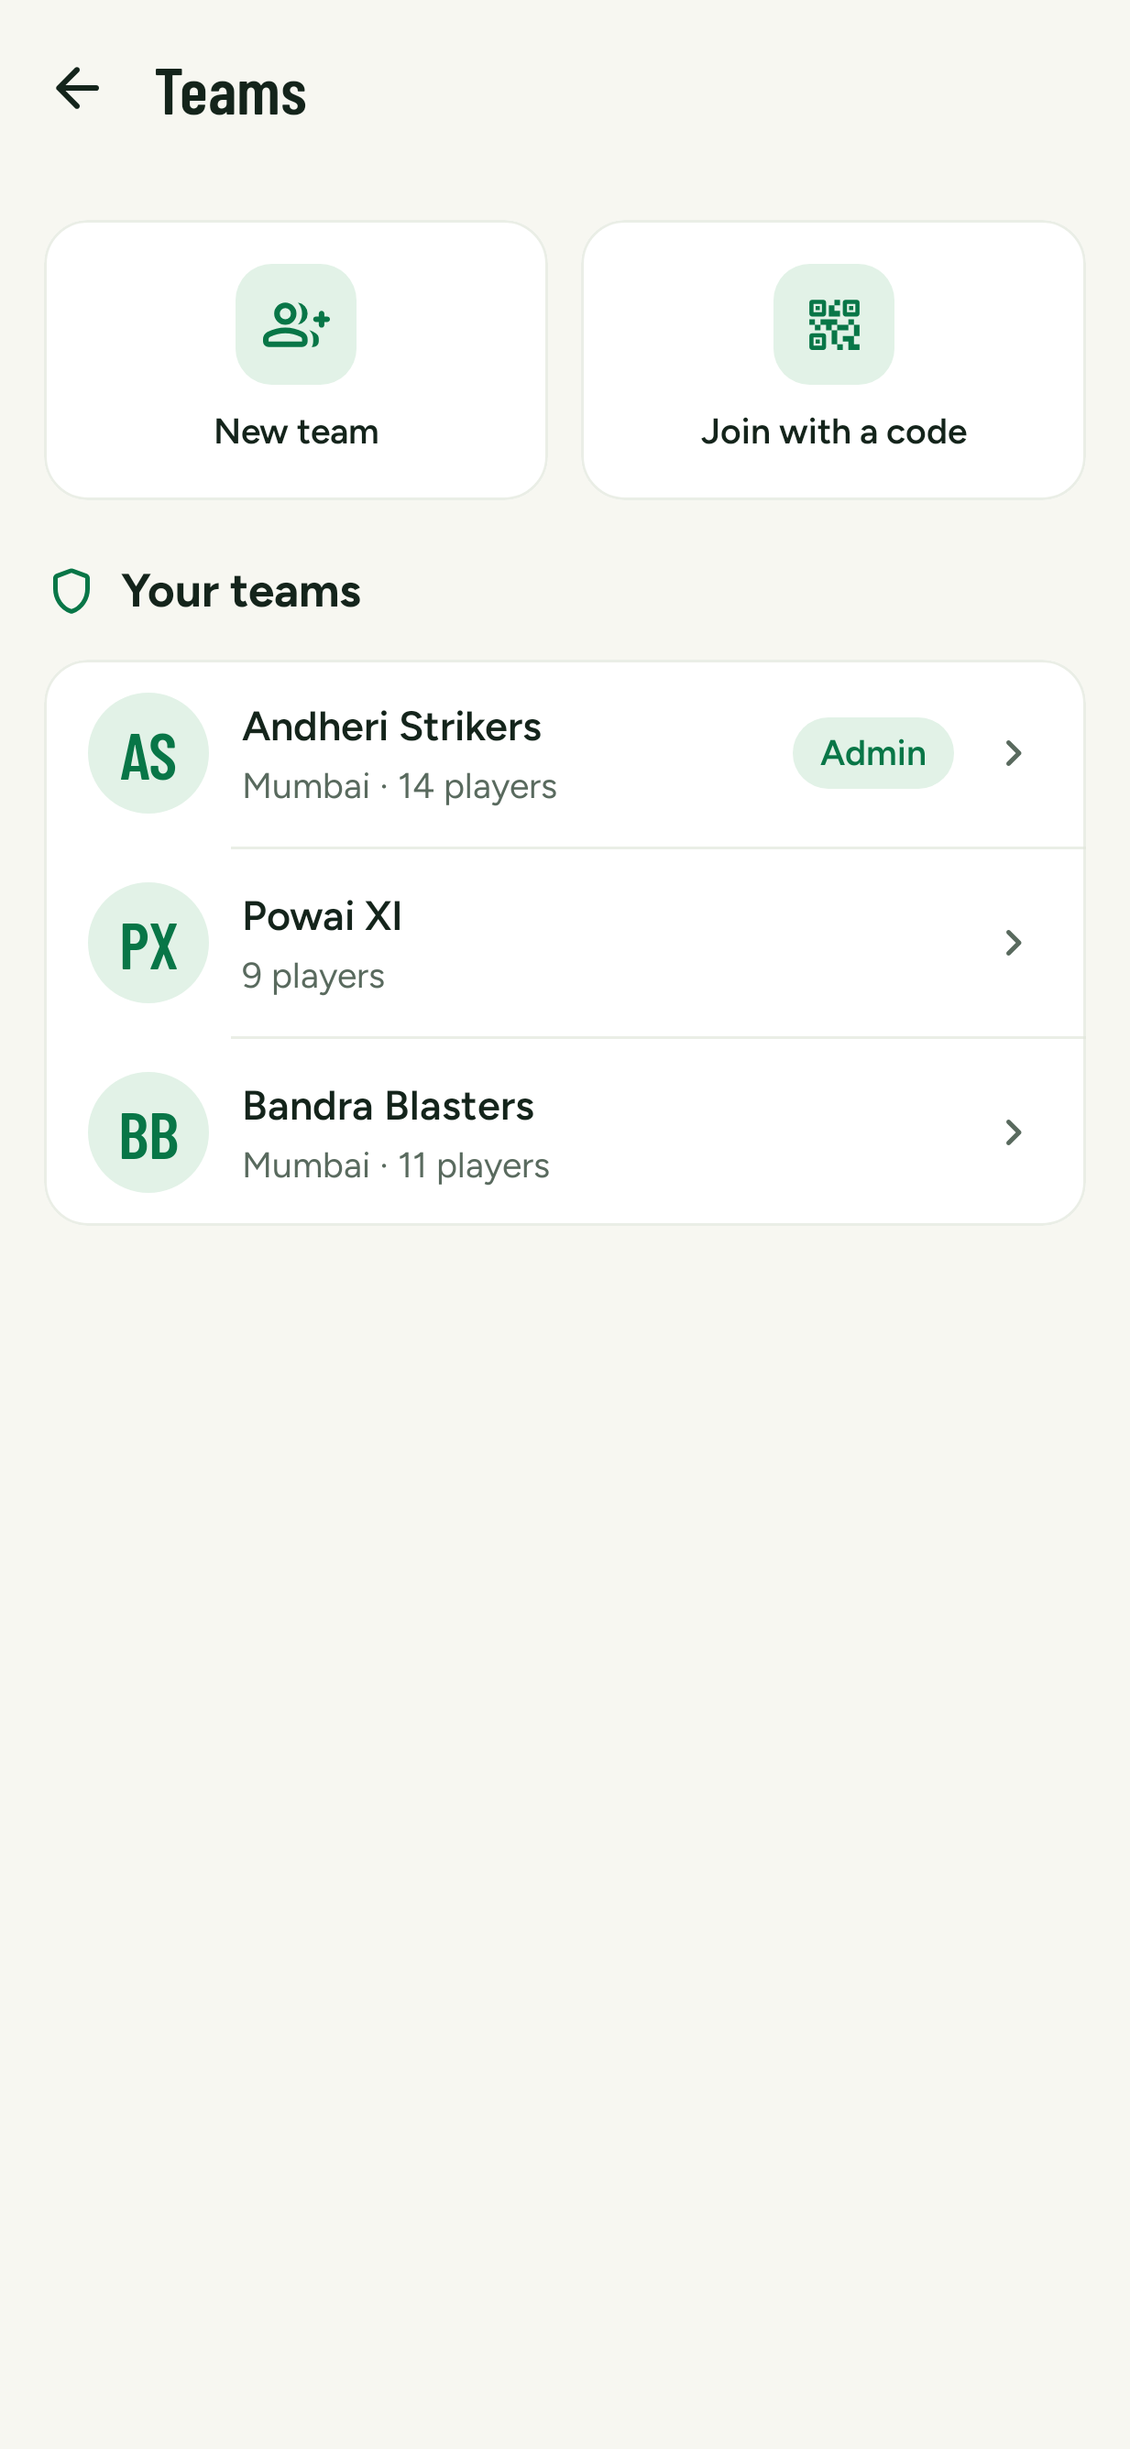
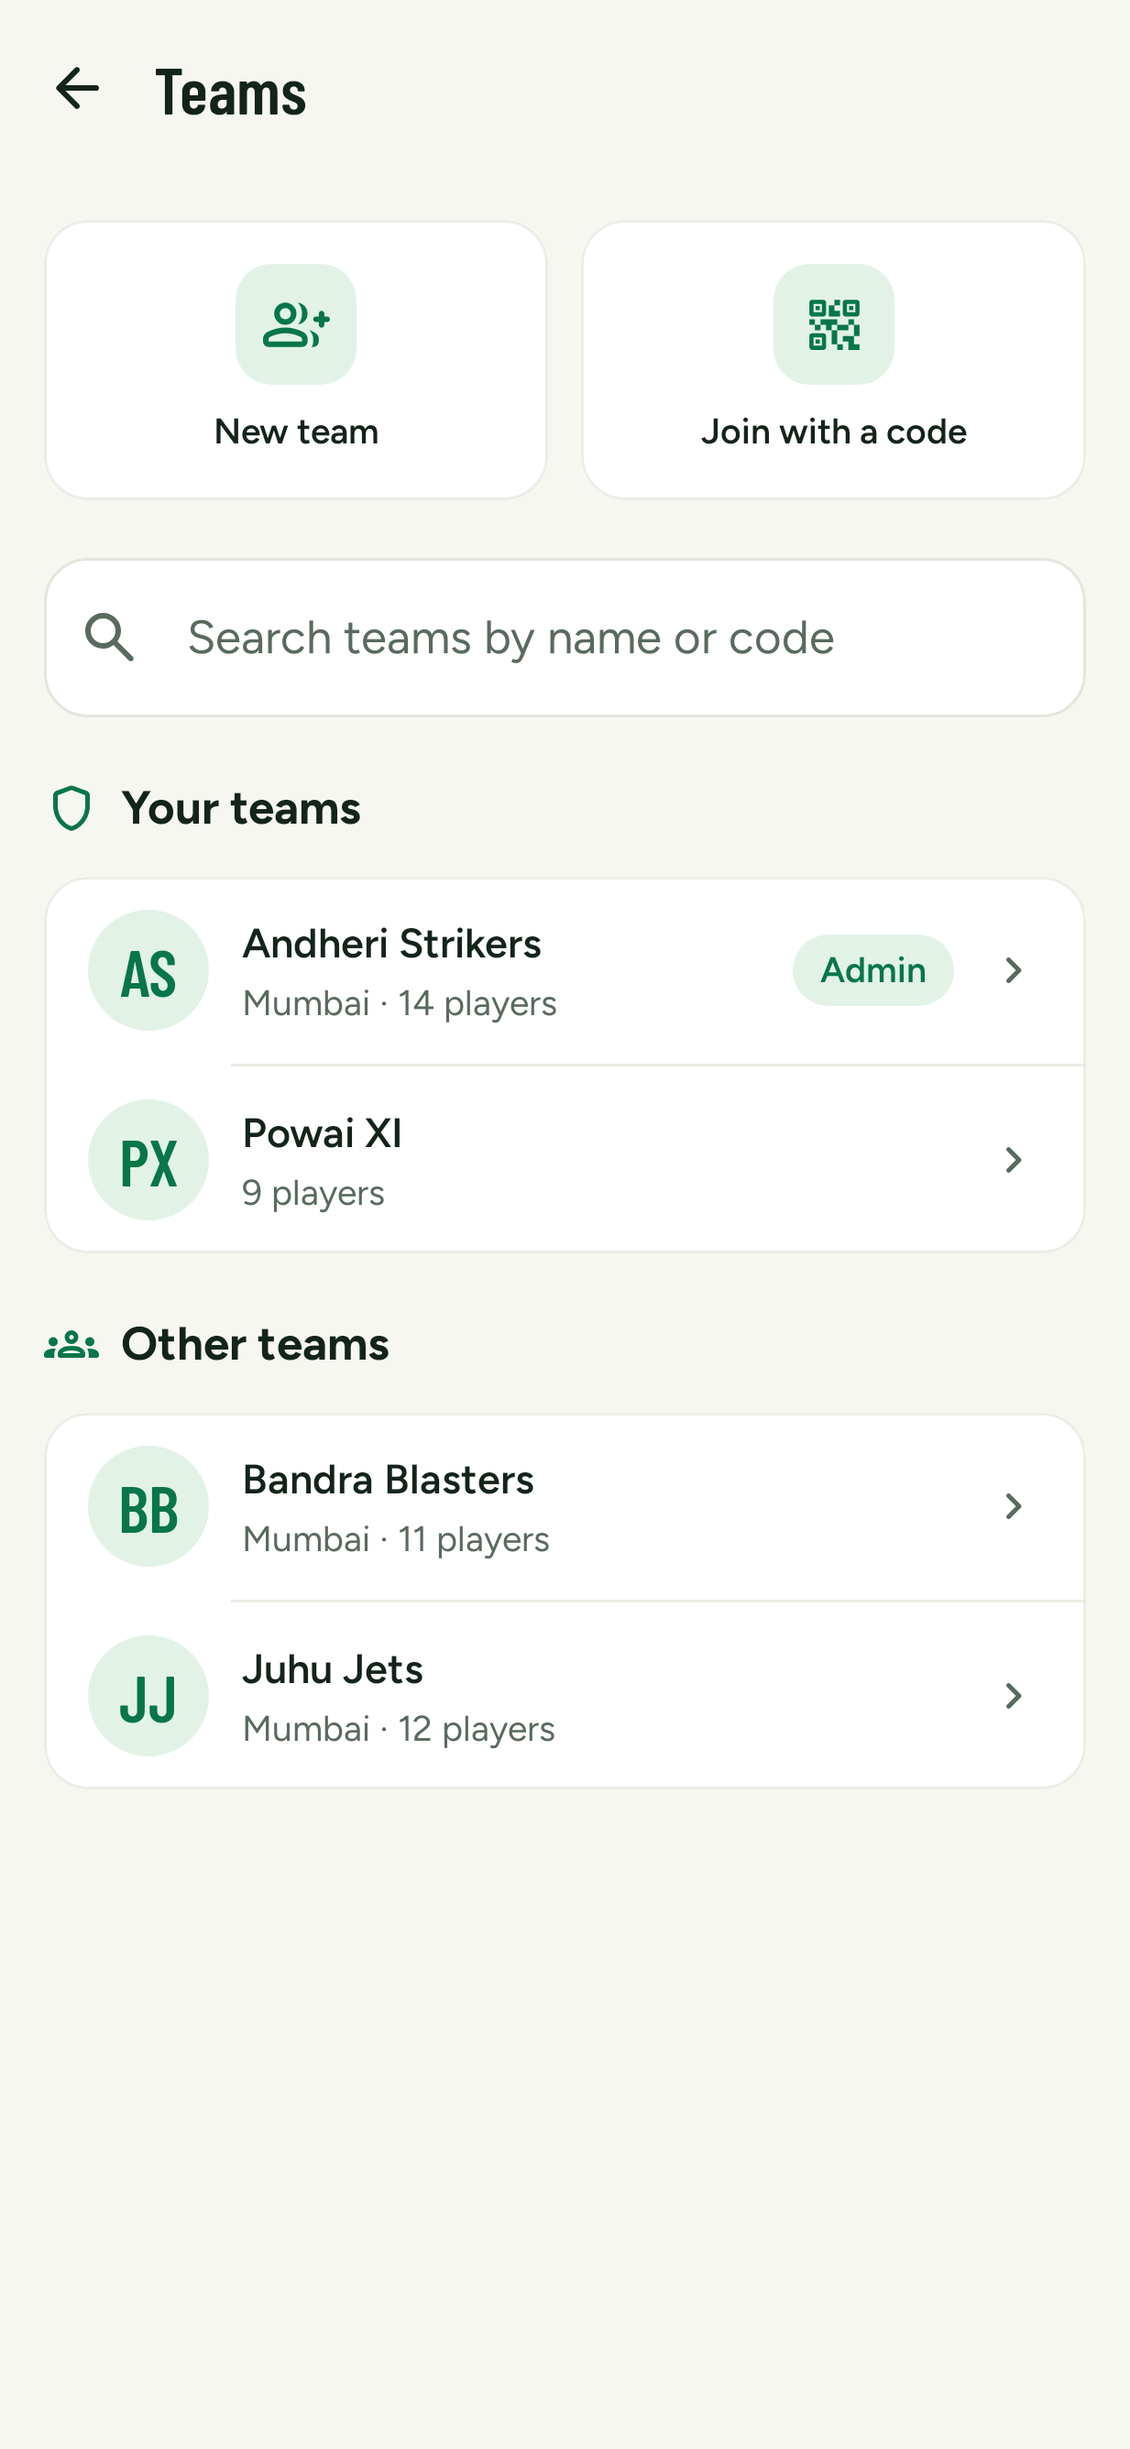
List every team on the Teams screen, with search
The screen only showed the caller's own teams. It now has a search box
and an "Other teams" section under "Your teams", paged from a new
GET /teams?q=&offset= that lists every team by name, or those matching
a name or code.

diff --git a/app/shared/src/commonMain/kotlin/com/harsh/desicrics/ui/teams/TeamsScreen.kt b/app/shared/src/commonMain/kotlin/com/harsh/desicrics/ui/teams/TeamsScreen.kt
@@ -16,6 +16,7 @@ import org.jetbrains.compose.resources.painterResource
 
 import androidx.compose.foundation.clickable
 import androidx.compose.foundation.layout.Arrangement
+import androidx.compose.foundation.layout.Box
 import androidx.compose.foundation.layout.Column
 import androidx.compose.foundation.layout.PaddingValues
 import androidx.compose.foundation.layout.Row
@@ -27,6 +28,7 @@ import androidx.compose.foundation.lazy.items
 import androidx.compose.foundation.text.KeyboardOptions
 import androidx.compose.material3.Text
 import androidx.compose.runtime.Composable
+import androidx.compose.runtime.LaunchedEffect
 import androidx.compose.runtime.getValue
 import androidx.compose.runtime.mutableStateOf
 import androidx.compose.runtime.saveable.rememberSaveable
@@ -38,8 +40,10 @@ import androidx.compose.ui.semantics.Role
 import androidx.compose.ui.text.input.ImeAction
 import androidx.compose.ui.text.input.KeyboardCapitalization
 import androidx.compose.ui.tooling.preview.Preview
+import androidx.compose.ui.unit.dp
 import androidx.lifecycle.compose.collectAsStateWithLifecycle
 import com.harsh.desicrics.designsystem.component.Avatar
+import com.harsh.desicrics.designsystem.component.BallSpinner
 import com.harsh.desicrics.designsystem.component.DesiCard
 import com.harsh.desicrics.designsystem.component.DesiScaffold
 import com.harsh.desicrics.designsystem.component.DesiSheet
@@ -65,7 +69,17 @@ fun TeamsScreen(
 ) {
     val state by viewModel.state.collectAsStateWithLifecycle()
     var sheet by rememberSaveable { mutableStateOf(if (joinCode != null) JOIN else null) }
-    TeamsContent(state, onOpenTeam, onCreate = { sheet = CREATE }, onJoin = { sheet = JOIN }, onBack = onBack, onRetry = viewModel::refresh)
+    TeamsContent(
+        state,
+        onOpenTeam,
+        onCreate = { sheet = CREATE },
+        onJoin = { sheet = JOIN },
+        onBack = onBack,
+        onRetry = viewModel::refresh,
+        onSearch = viewModel::search,
+        onLoadMore = viewModel::loadMore,
+        onRetryBrowse = viewModel::retryBrowse,
+    )
     val close = {
         sheet = null
         viewModel.clearErrors()
@@ -100,8 +114,14 @@ fun TeamsContent(
     onJoin: () -> Unit,
     onBack: () -> Unit,
     onRetry: () -> Unit = {},
+    onSearch: (String) -> Unit = {},
+    onLoadMore: () -> Unit = {},
+    onRetryBrowse: () -> Unit = {},
 ) {
     val space = DesiTheme.space
+    val searching = state.query.isNotBlank()
+    val mine = state.mine
+    val others = state.others
     DesiScaffold(title = stringResource(Res.string.teams_title), onBack = onBack) { padding ->
         LazyColumn(
             Modifier.fillMaxSize().padding(padding),
@@ -114,15 +134,45 @@ fun TeamsContent(
                     ActionTile(DesiIcons.QrCode, stringResource(Res.string.teams_join), onJoin, Modifier.weight(1f))
                 }
             }
+            item {
+                DesiTextField(
+                    value = state.query,
+                    onValueChange = { onSearch(it.take(60)) },
+                    label = stringResource(Res.string.teams_search),
+                    leadingIcon = DesiIcons.Search,
+                    keyboardOptions = KeyboardOptions(capitalization = KeyboardCapitalization.Words, imeAction = ImeAction.Search),
+                )
+            }
             if (state.loadFailed) {
                 item { ErrorState(stringResource(Res.string.error_teams_title), stringResource(Res.string.error_connection_body), onRetry = onRetry, compact = true) }
             }
-            if (!state.loading && state.teams.isEmpty() && !state.loadFailed) {
+            if (!searching && !state.loading && state.teams.isEmpty() && !state.loadFailed) {
                 item { EmptyState(DesiIcons.Shield, stringResource(Res.string.teams_empty_title), body = stringResource(Res.string.teams_empty)) }
             }
-            if (state.teams.isNotEmpty()) {
+            if (mine.isNotEmpty()) {
                 item { SectionHeader(stringResource(Res.string.teams_yours), icon = DesiIcons.Shield, modifier = Modifier.padding(top = space.s2)) }
-                item { TeamList(state.teams, onOpenTeam) }
+                item { TeamList(mine, onOpenTeam) }
+            }
+            if (others.isNotEmpty()) {
+                item { SectionHeader(stringResource(Res.string.teams_others), icon = DesiIcons.Teams, modifier = Modifier.padding(top = space.s2)) }
+                item { TeamList(others, onOpenTeam) }
+            }
+            // Asks for the next page when the list scrolls down to here.
+            if (!state.browsedAll && !state.browseFailed && state.browsed.isNotEmpty()) {
+                item(key = "more") {
+                    LaunchedEffect(state.browsed.size, state.query) { onLoadMore() }
+                }
+            }
+            when {
+                state.browseFailed -> item {
+                    ErrorState(stringResource(Res.string.error_teams_title), stringResource(Res.string.error_connection_body), onRetry = onRetryBrowse, compact = true)
+                }
+                state.browsing -> item {
+                    Box(Modifier.fillMaxWidth().padding(vertical = space.s4), contentAlignment = Alignment.Center) { BallSpinner(size = 28.dp) }
+                }
+                searching && mine.isEmpty() && others.isEmpty() -> item {
+                    EmptyState(DesiIcons.Search, stringResource(Res.string.teams_no_match))
+                }
             }
         }
     }

diff --git a/app/shared/src/commonMain/kotlin/com/harsh/desicrics/ui/teams/TeamsViewModels.kt b/app/shared/src/commonMain/kotlin/com/harsh/desicrics/ui/teams/TeamsViewModels.kt
@@ -40,12 +40,32 @@ data class TeamsUiState(
     val saving: Boolean = false,
     val joinFailed: Boolean = false,
     val actionFailed: Boolean = false,
-)
+    /** Filters both lists, by name or code. */
+    val query: String = "",
+    /** Every team (or those matching [query]) as the server pages them, the caller's own included. */
+    val browsed: List<TeamSummary> = emptyList(),
+    val browsing: Boolean = true,
+    /** The server has no more pages. */
+    val browsedAll: Boolean = false,
+    val browseFailed: Boolean = false,
+) {
+    /** The caller's teams that match the search. */
+    val mine: List<TeamSummary>
+        get() = query.trim().takeIf { it.isNotEmpty() }?.let { q -> teams.filter { it.name.contains(q, ignoreCase = true) || it.code == q } } ?: teams
+
+    /** Everyone else's, which the caller can open to follow or ask to join. */
+    val others: List<TeamSummary>
+        get() {
+            val ids = teams.map { it.id }.toSet()
+            return browsed.filter { it.id !in ids }
+        }
+}
 
 class TeamsViewModel(private val repository: TeamRepository) : ViewModel() {
 
     private val _state = MutableStateFlow(TeamsUiState())
     val state: StateFlow<TeamsUiState> = _state
+    private var browseJob: Job? = null
 
     init {
         refresh()
@@ -56,6 +76,39 @@ class TeamsViewModel(private val repository: TeamRepository) : ViewModel() {
             attempt { repository.myTeams() }.fold(
                 onSuccess = { teams -> _state.update { it.copy(loading = false, teams = teams, loadFailed = false) } },
                 onFailure = { _state.update { it.copy(loading = false, loadFailed = true) } },
+            )
+        }
+        browse(reset = true)
+    }
+
+    /** Searches as the user types, waiting briefly so each keystroke doesn't hit the server. */
+    fun search(query: String) {
+        _state.update { it.copy(query = query) }
+        browse(reset = true, wait = true)
+    }
+
+    /** The next page, when the list scrolls to its end. */
+    fun loadMore() {
+        val s = _state.value
+        if (s.browsing || s.browsedAll || s.browseFailed) return
+        browse(reset = false)
+    }
+
+    fun retryBrowse() = browse(reset = _state.value.browsed.isEmpty())
+
+    private fun browse(reset: Boolean, wait: Boolean = false) {
+        if (reset) browseJob?.cancel()
+        _state.update { it.copy(browsing = true, browseFailed = false) }
+        browseJob = viewModelScope.launch {
+            if (wait) delay(300)
+            val offset = if (reset) 0 else _state.value.browsed.size
+            attempt { repository.browse(_state.value.query, offset) }.fold(
+                onSuccess = { page ->
+                    _state.update {
+                        it.copy(browsed = if (reset) page else it.browsed + page, browsing = false, browsedAll = page.isEmpty())
+                    }
+                },
+                onFailure = { _state.update { it.copy(browsing = false, browseFailed = true) } },
             )
         }
     }

diff --git a/server/src/main/kotlin/com/harsh/desicrics/store/ExposedTeamStores.kt b/server/src/main/kotlin/com/harsh/desicrics/store/ExposedTeamStores.kt
@@ -18,6 +18,7 @@ import com.harsh.desicrics.model.TeamSummary
 import com.harsh.desicrics.model.UserProfile
 import org.jetbrains.exposed.v1.core.JoinType
 import org.jetbrains.exposed.v1.core.ResultRow
+import org.jetbrains.exposed.v1.core.SortOrder
 import org.jetbrains.exposed.v1.core.and
 import org.jetbrains.exposed.v1.core.count
 import org.jetbrains.exposed.v1.core.eq
@@ -355,11 +356,13 @@ class ExposedTeamStore(private val db: Database) : TeamStore {
         if (e.isUniqueViolation()) false else throw e
     }
 
-    override suspend fun search(query: String, limit: Int): List<TeamSummary> = db.query {
+    override suspend fun search(query: String, limit: Int, offset: Long): List<TeamSummary> = db.query {
         val pattern = "%${query.trim().lowercase().escapeLike()}%"
         val byCode = com.harsh.desicrics.service.publicCodeIn(query)?.let { TeamsTable.code eq it }
         val byName = TeamsTable.name.lowerCase() like pattern
-        val rows = TeamsTable.selectAll().where { if (byCode != null) byName or byCode else byName }.orderBy(TeamsTable.name).limit(limit).toList()
+        // The id breaks ties between teams of the same name, so pages don't overlap.
+        val rows = TeamsTable.selectAll().where { if (byCode != null) byName or byCode else byName }
+            .orderBy(TeamsTable.name to SortOrder.ASC, TeamsTable.id to SortOrder.ASC).limit(limit).offset(offset).toList()
         val count = TeamMembersTable.playerId.count()
         val sizes = TeamMembersTable.select(TeamMembersTable.teamId, count)
             .where { TeamMembersTable.teamId inList rows.map { it[TeamsTable.id] } }

diff --git a/server/src/test/kotlin/com/harsh/desicrics/TeamsTest.kt b/server/src/test/kotlin/com/harsh/desicrics/TeamsTest.kt
@@ -16,6 +16,7 @@ import com.harsh.desicrics.model.PlayerSummary
 import com.harsh.desicrics.model.SavedTeam
 import com.harsh.desicrics.model.TeamRole
 import com.harsh.desicrics.model.TeamSummary
+import com.harsh.desicrics.service.TEAM_PAGE
 import io.ktor.client.HttpClient
 import io.ktor.client.call.body
 import io.ktor.client.request.bearerAuth
@@ -66,6 +67,23 @@ class TeamsTest {
         val newCode = client.post("/teams/${team.id}/join-code") { bearerAuth("test-asha") }.body<SavedTeam>().joinCode
         assertTrue(newCode != code)
         assertEquals(HttpStatusCode.NotFound, client.post("/teams/join/$code") { bearerAuth("test-dev") }.status)
+    }
+
+    @Test
+    fun everyTeamIsListedAPageAtATimeAndSearchable() = apiTest { client ->
+        client.setUpProfile("asha")
+        val names = (1..TEAM_PAGE + 2).map { "Team %02d".format(it) }
+        names.forEach { client.createTeam("asha", it) }
+        val other = client.createTeam("asha", "Powai XI")
+
+        suspend fun page(query: String = "", offset: Int = 0) =
+            client.get("/teams?q=$query&offset=$offset") { bearerAuth("test-dev") }.body<List<TeamSummary>>()
+        val first = page()
+        val second = page(offset = first.size)
+        assertEquals(TEAM_PAGE, first.size)
+        assertEquals(listOf("Powai XI") + names, (first + second).map { it.name })
+        assertEquals(listOf("Powai XI"), page("powai").map { it.name })
+        assertEquals(listOf("Powai XI"), page(other.code).map { it.name })
     }
 
     @Test

diff --git a/server/src/main/kotlin/com/harsh/desicrics/service/TeamServices.kt b/server/src/main/kotlin/com/harsh/desicrics/service/TeamServices.kt
@@ -45,6 +45,9 @@ internal suspend fun <T> withFreshCode(save: suspend (code: String) -> T?): T {
 /** How many recent matches team insights look at. */
 const val INSIGHT_MATCHES = 50
 
+/** Teams per page when browsing them. */
+const val TEAM_PAGE = 30
+
 class TeamService(
     private val teams: TeamStore,
     private val players: PlayerStore,
@@ -56,6 +59,10 @@ class TeamService(
         { _, _, _, _, _ -> },
 ) {
     suspend fun mine(user: FirebasePrincipal): List<TeamSummary> = teams.forPlayer(user.uid)
+
+    /** Every team, or those matching [query] by name or code, a page of [TEAM_PAGE] at a time. */
+    suspend fun browse(query: String, offset: Long): List<TeamSummary> =
+        teams.search(query.trim().take(60), TEAM_PAGE, offset.coerceAtLeast(0))
 
     suspend fun create(user: FirebasePrincipal, request: TeamRequest): SavedTeam {
         request.validate()?.let { throw ApiException(HttpStatusCode.BadRequest, it.message) }

diff --git a/app/shared/src/androidHostTest/kotlin/com/harsh/desicrics/ScreenshotTest.kt b/app/shared/src/androidHostTest/kotlin/com/harsh/desicrics/ScreenshotTest.kt
@@ -307,7 +307,13 @@ class ScreenshotTest {
     @Test
     fun teamsList() = shoot("teams_list") {
         TeamsContent(
-            TeamsUiState(loading = false, teams = listOf(TeamSummary("t1", "Andheri Strikers", "Mumbai", 14, TeamRole.ADMIN), TeamSummary("t2", "Powai XI", "", 9), TeamSummary("t3", "Bandra Blasters", "Mumbai", 11))),
+            TeamsUiState(
+                loading = false,
+                teams = listOf(TeamSummary("t1", "Andheri Strikers", "Mumbai", 14, TeamRole.ADMIN), TeamSummary("t2", "Powai XI", "", 9)),
+                browsed = listOf(TeamSummary("t1", "Andheri Strikers", "Mumbai", 14), TeamSummary("t3", "Bandra Blasters", "Mumbai", 11), TeamSummary("t4", "Juhu Jets", "Mumbai", 12)),
+                browsing = false,
+                browsedAll = true,
+            ),
             {}, {}, {}, {},
         )
     }

diff --git a/app/shared/src/commonMain/kotlin/com/harsh/desicrics/data/api/DesiCricsApi.kt b/app/shared/src/commonMain/kotlin/com/harsh/desicrics/data/api/DesiCricsApi.kt
@@ -146,6 +146,10 @@ class DesiCricsApi(
 
     suspend fun myTeams(): List<TeamSummary> = call { get("$baseUrl/teams/mine", it) }.body()
 
+    /** Every team, or those matching [query] by name or code, a page at a time from [offset]. */
+    suspend fun browseTeams(query: String, offset: Int): List<TeamSummary> =
+        call { get("$baseUrl/teams") { it(); parameter("q", query); parameter("offset", offset) } }.body()
+
     suspend fun createTeam(request: TeamRequest): SavedTeam = call { post("$baseUrl/teams") { it(); json(request) } }.body()
 
     suspend fun team(teamId: String): SavedTeam = call { get("$baseUrl/teams/$teamId", it) }.body()

diff --git a/server/src/main/kotlin/com/harsh/desicrics/TeamRoutes.kt b/server/src/main/kotlin/com/harsh/desicrics/TeamRoutes.kt
@@ -24,6 +24,10 @@ import io.ktor.server.routing.route
 fun Route.teamRoutes(teams: TeamService) {
     route("/teams") {
         get("/mine") { call.respond(teams.mine(call.user)) }
+        get {
+            val query = call.request.queryParameters["q"].orEmpty()
+            call.respond(teams.browse(query, call.request.queryParameters["offset"]?.toLongOrNull() ?: 0))
+        }
         post { call.respond(HttpStatusCode.Created, teams.create(call.user, call.receive<TeamRequest>())) }
         post("/join/{code}") { call.respond(teams.join(call.user, call.param("code"))) }
         route("/{id}") {

diff --git a/server/src/main/kotlin/com/harsh/desicrics/store/Stores.kt b/server/src/main/kotlin/com/harsh/desicrics/store/Stores.kt
@@ -165,8 +165,8 @@ interface TeamStore {
 
     suspend fun setLogo(teamId: String, url: String?)
 
-    /** Teams whose name contains [query]. */
-    suspend fun search(query: String, limit: Int): List<TeamSummary>
+    /** Teams whose name contains [query], or with that code; every team for a blank one. By name, a page at a time. */
+    suspend fun search(query: String, limit: Int, offset: Long = 0): List<TeamSummary>
 
     /** Teams [profileId] belongs to, for removing them when the account is deleted. */
     suspend fun teamIdsOf(profileId: String): List<String>

diff --git a/app/shared/src/commonMain/kotlin/com/harsh/desicrics/data/TeamRepository.kt b/app/shared/src/commonMain/kotlin/com/harsh/desicrics/data/TeamRepository.kt
@@ -23,6 +23,8 @@ class TeamRepository(private val api: DesiCricsApi, private val config: ApiConfi
 
     suspend fun myTeams(): List<TeamSummary> = api.myTeams()
 
+    suspend fun browse(query: String, offset: Int): List<TeamSummary> = api.browseTeams(query.trim(), offset)
+
     suspend fun create(name: String, city: String, lineup: List<com.harsh.desicrics.api.SquadPlayer> = emptyList()): SavedTeam =
         api.createTeam(TeamRequest(name.trim(), city.trim(), lineup)).also { analytics.log(AnalyticsEvents.TEAM_CREATED, emptyMap()) }
 
